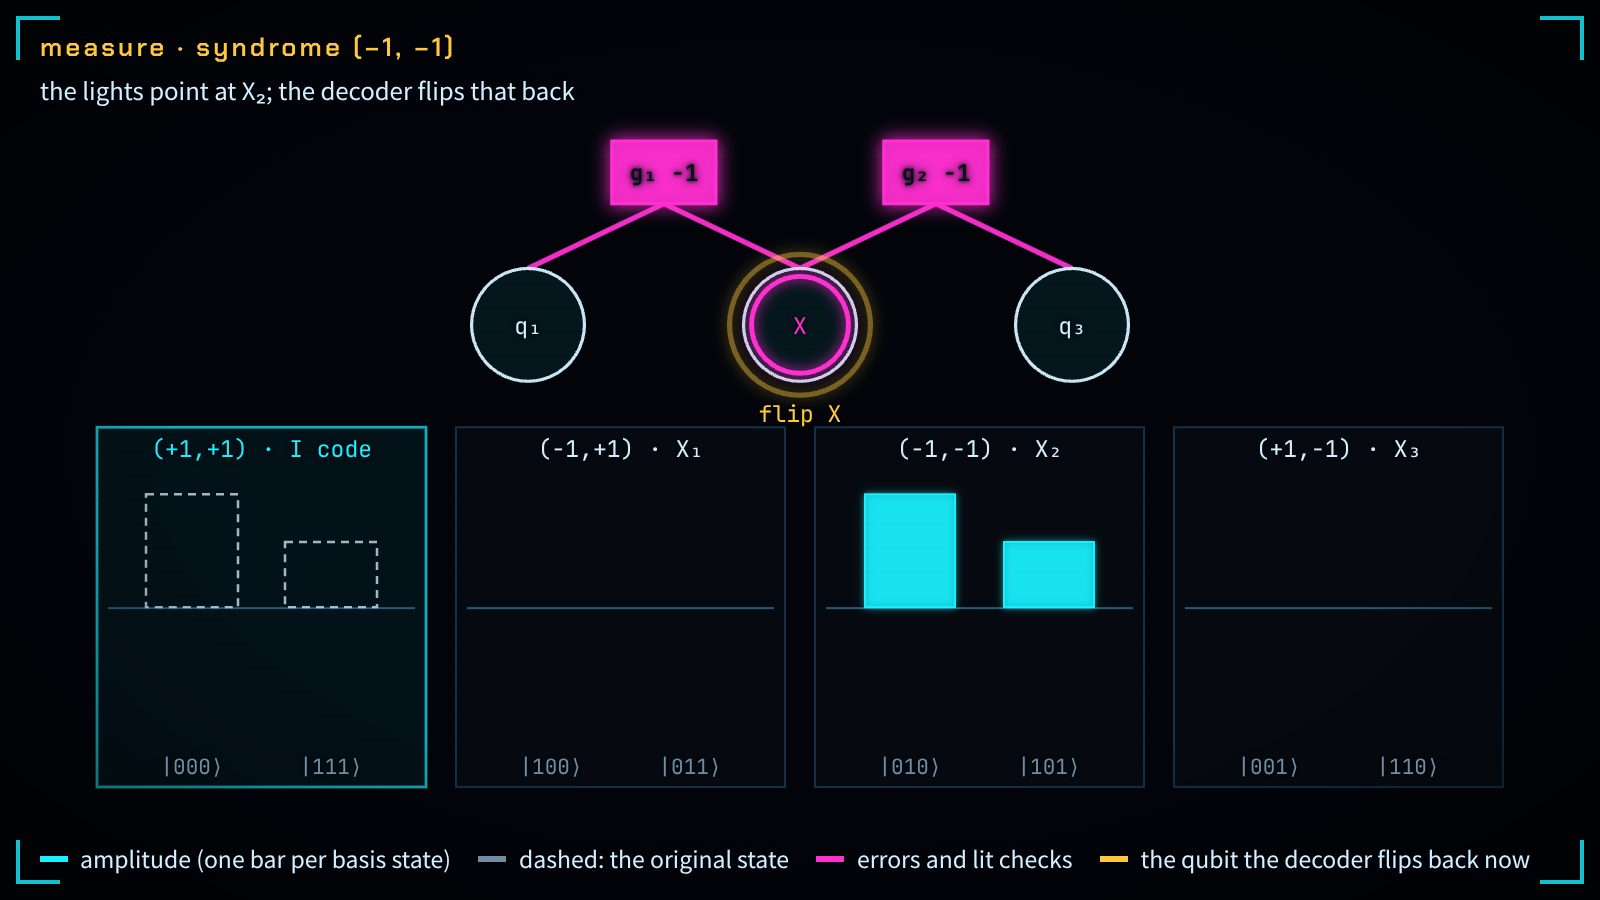
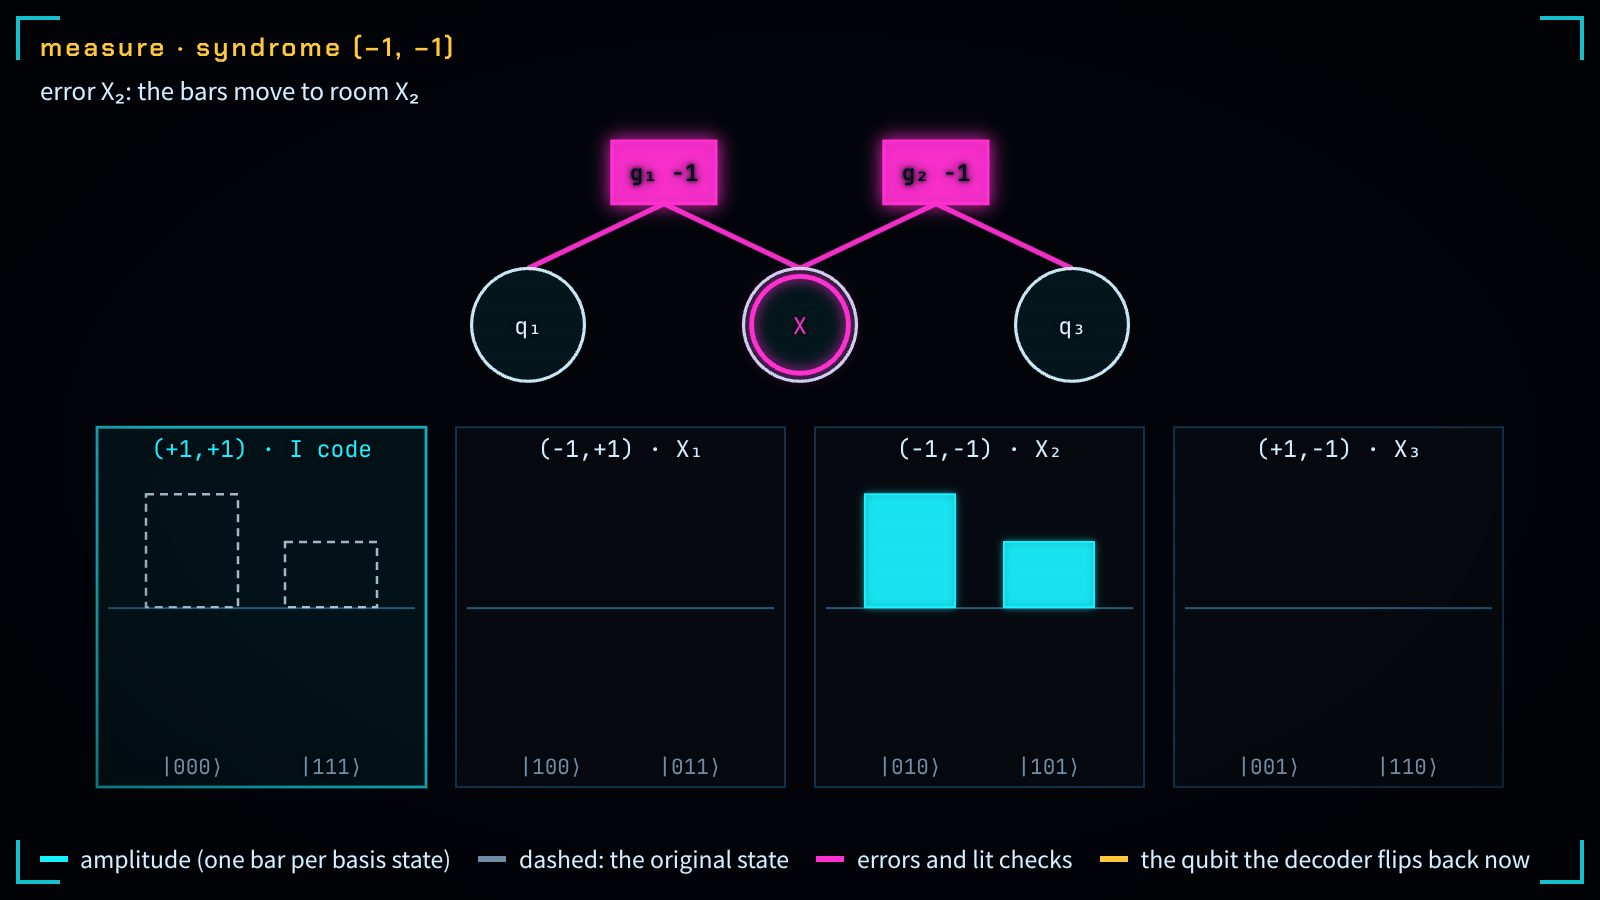
syndrome-decoding: the rooms still stops after the checks are read, before the decoder flips
At t = 2 the lights are on and the bars stand in room (-1,-1); the decoder's amber flip now
starts only after that frame, so the cited figure shows what its caption says. The test
checks the still against the matrices and the chapter 14 captions.

diff --git a/books/quantum-geometry/viz/syndrome-decoding/main.js b/books/quantum-geometry/viz/syndrome-decoding/main.js
@@ -124,7 +124,7 @@
     const sm = summary(), brs = sm.brs, mix = S.noise === 'mix', th = TRV.thumbMode ? 1.8 : 1;
     const errIn = t >= 1 ? 1 : ease(t);                 // errors appear over step 0 → 1
     const lit = t >= 2 ? 1 : (t >= 1 ? ease(u) : 0);    // checks light over step 1 → 2
-    const fixOn = t >= 2;                                // the decoder acts over step 2 → 3
+    const fixOn = t > 2;                                 // the decoder acts over step 2 → 3 (at t = 2 the checks are read, nothing flipped yet)
 
     // the probability that each check is lit (1 or 0 for one error; a weight for the mixture)
     const pLit = [0, 1].map((g) => brs.reduce((a, br) => a + br.w * br.syn[g], 0));
@@ -234,7 +234,7 @@
     $('hudBig').textContent = L(`${STEP[step][0]} · 综合征 ${t >= 2 ? synTxt(br.syn) : '?'}`, `${STEP[step][1]} · syndrome ${t >= 2 ? synTxt(br.syn) : '?'}`);
     const lost = sm.fid < 1 - 1e-9;
     $('hudSub').innerHTML = t < 1 ? L(`α|000⟩ + β|111⟩，α = ${fix(amps()[0], 3)}，β = ${fix(amps()[1], 3)}`, `α|000⟩ + β|111⟩ with α = ${fix(amps()[0], 3)}, β = ${fix(amps()[1], 3)}`)
-      : t < 2 ? L(`错误 ${name(br.err)}：柱子搬进 ${ROOM_E[roomOfSyn(br.syn)]} 那间房`, `error ${name(br.err)}: the bars move to room ${ROOM_E[roomOfSyn(br.syn)]}`)
+      : t <= 2 ? L(`错误 ${name(br.err)}：柱子搬进 ${ROOM_E[roomOfSyn(br.syn)]} 那间房`, `error ${name(br.err)}: the bars move to room ${ROOM_E[roomOfSyn(br.syn)]}`)
         : t < 3 ? L(`灯指向 ${ROOM_E[roomOfSyn(br.syn)]}，解码器照着翻回`, `the lights point at ${ROOM_E[roomOfSyn(br.syn)]}; the decoder flips that back`)
           : lost ? L(`回到码空间，却与虚线对不上：重合 ${fix(sm.fid, 3)}`, `back in the code space, but off the dashed outline: overlap ${fix(sm.fid, 3)}`)
             : L('回到码空间，与虚线重合：重合 1', 'back in the code space, on the dashed outline: overlap 1');
